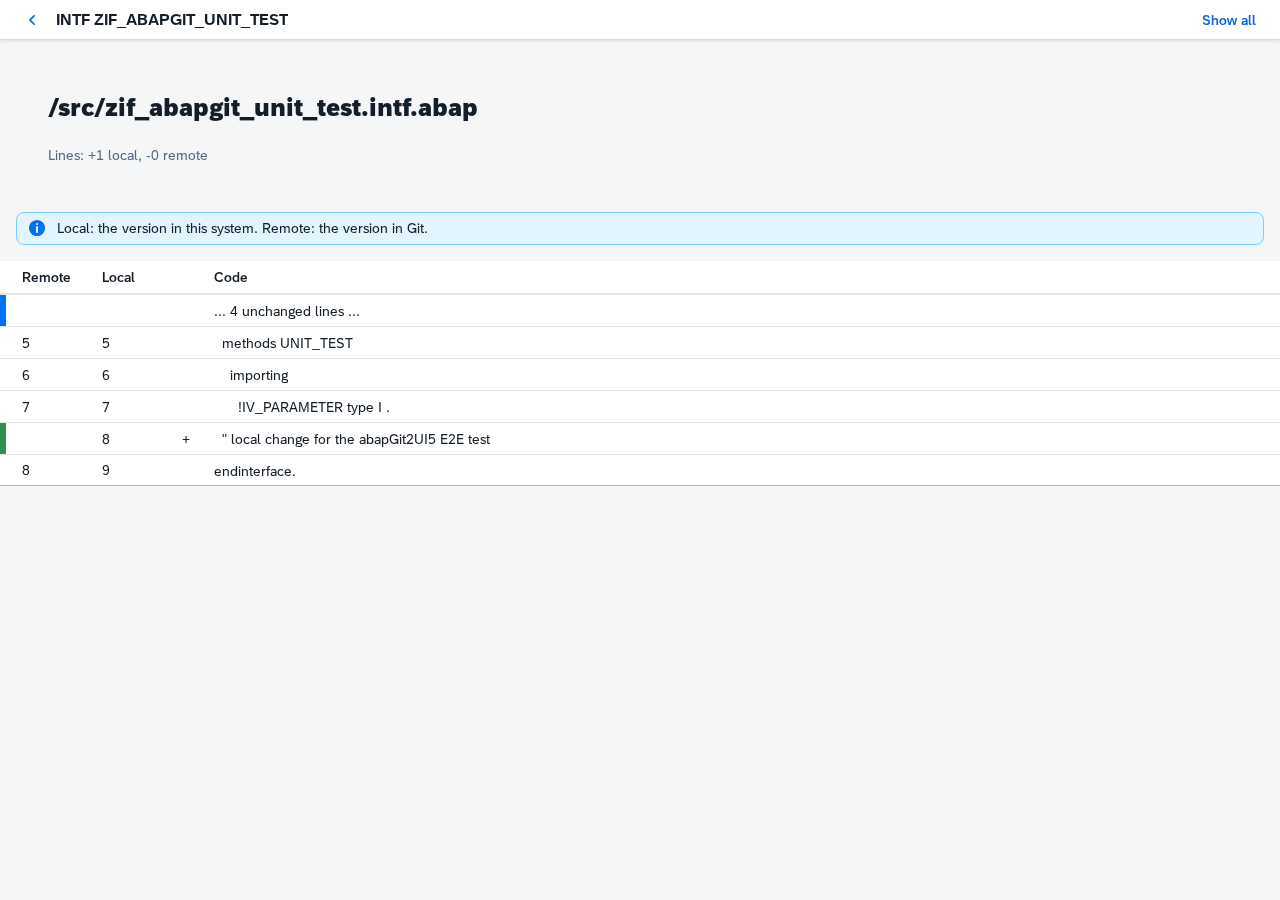
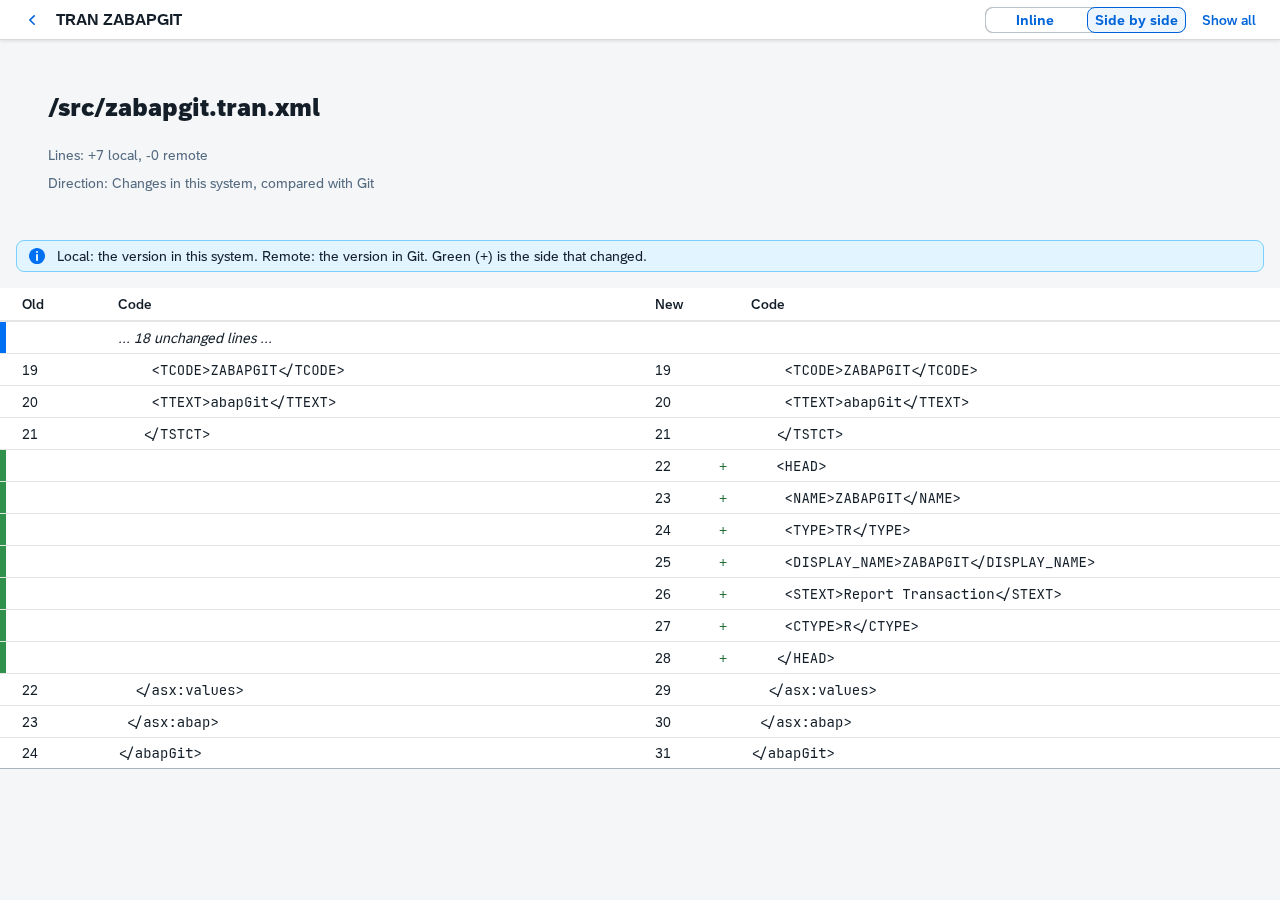
Docs: side-by-side diff, direction, screenshot
Claude-Session: https://claude.ai/code/session_01CL5hxiNLSEX9acta1MmtYi

diff --git a/docs/findings.md b/docs/findings.md
@@ -196,3 +196,19 @@ See `docs/superpowers/specs/2026-10-01-diff-view-design.md`.
 - abap2UI5 upstream: `escape_string` in `z2ui5_cl_ajson` escapes no control
   characters other than tab, CR and LF. This is worth an issue, because it
   affects every app.
+
+## Slice 5: side-by-side diff and direction (2026-10-01)
+
+- **Direction as in abapGit:** when only the remote changed, the remote is the
+  "new" side, in green with `+`. Otherwise the system is new. The header says
+  which way the diff reads.
+- **"Inline | Side by side"** switch. Side by side pairs a changed block line
+  by line. On narrow screens the new side moves below the old one (UI5 popin).
+- **Code is monospace** through `sap.m.FormattedText` with `<code>`. It is
+  escaped in ABAP, keeps its indentation as `&nbsp;`, wraps long lines, and
+  UI5 additionally sanitizes it. Tables grow by 500 rows at a time.
+- ABAP Unit is 60/60 (direction, swapped mapping, pairing, code HTML).
+- The screenshots use the real diff of `zabapgit.tran.xml` from A4H25. The
+  console output of `sapcli abap run` escapes `&` a second time; that is an
+  artifact of the screenshot data path, not of the app.
+- Browser test: still waiting for a login in Chrome.

diff --git a/README.md b/README.md
@@ -10,12 +10,13 @@ This is a proof of concept. It supports three things:
 - **Repository list:** all abapGit repositories of the system, with a search.
 - **Status:** the files that differ between the system and the remote, or that
   are inactive.
-- **Diff:** pressing a file in the status list shows its line diff, the system's
-  version against Git's, changes with context or the whole file.
+- **Diff:** pressing a file in the status list shows its line diff, inline or
+  side by side, with changes in context or the whole file. As in abapGit, the
+  side that changed is the "new" one, in green.
 - **Pull with decisions:** a dialog lists every change, grouped by risk, with
   abapGit's defaults preselected. Only what you tick is changed.
 
-Stage, commit, push and a side-by-side diff are not part of it yet.
+Stage, commit and push are not part of it yet.
 
 | Repositories | Status | Diff | Pull |
 |---|---|---|---|
